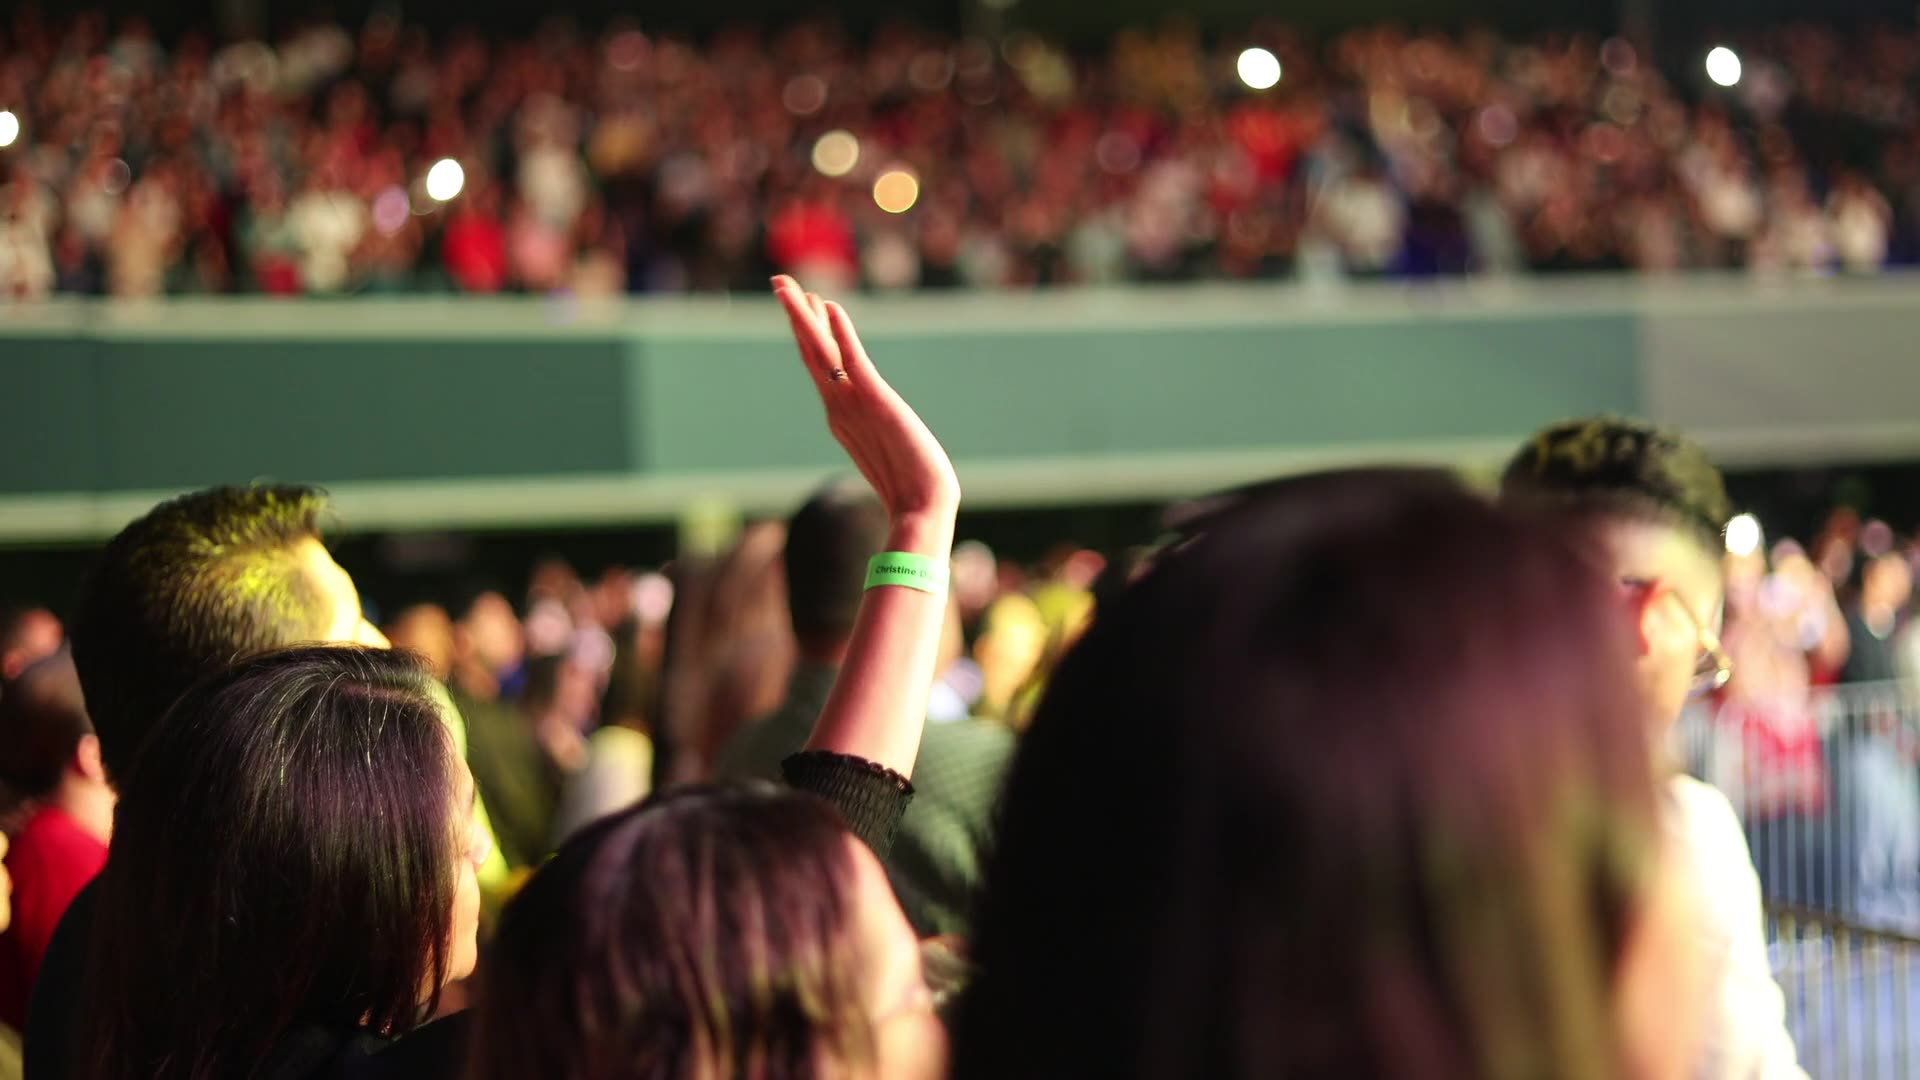
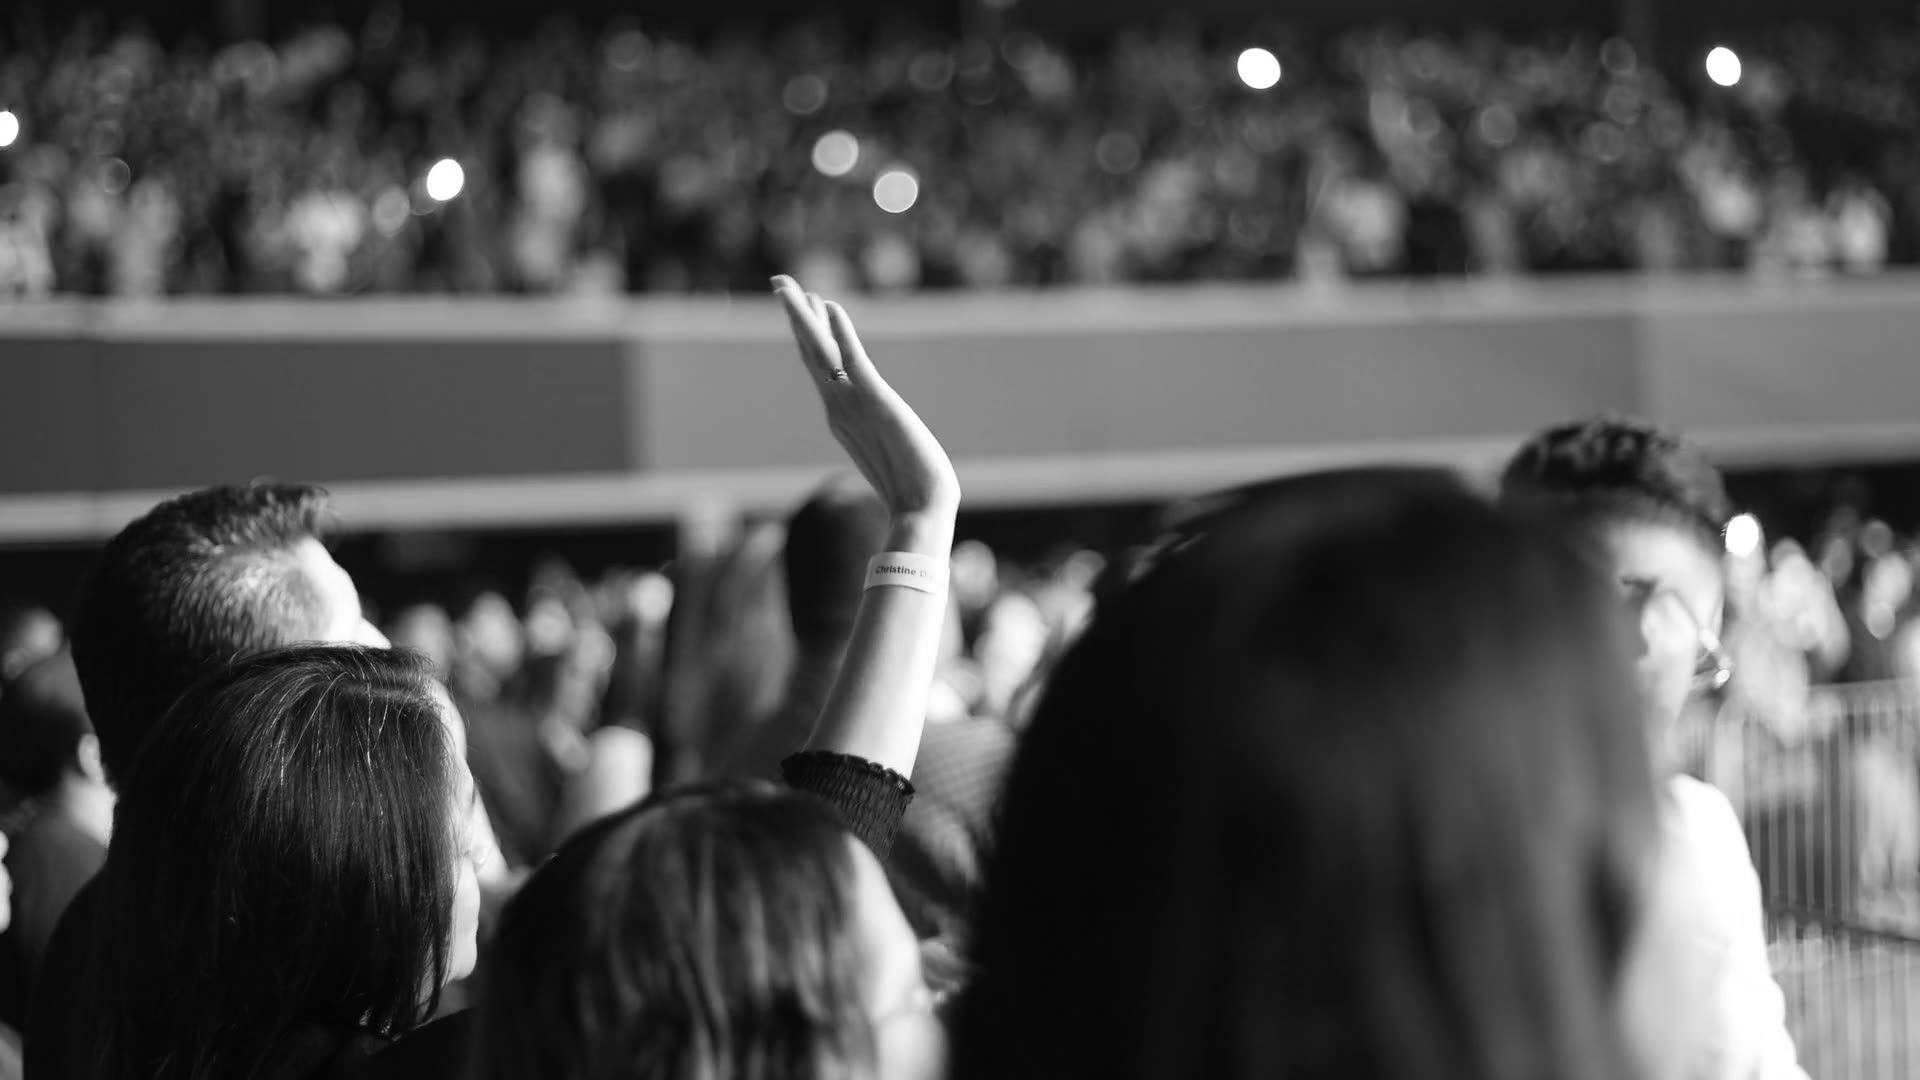
Church-appropriate photos (worship, prayer, Bible, fellowship, giving/harvest); black-and-white hero video
Claude-Session: https://claude.ai/code/session_01KxbrNpVm5YzjQbUdUbaS2n

diff --git a/edwards-redesign/index.html b/edwards-redesign/index.html
@@ -23,7 +23,7 @@
   Interactions: header turns solid on scroll, hero load sequence, image curtain reveals,
   text fade-ups, card lift, button fill sweeps, back-to-top. All respect reduced motion.
   Colours/fonts are the variables in styles.css → set once as Global Colors / Global Fonts.
-  Photos: Unsplash.
+  Photos: Unsplash (church worship, prayer, Bible reading, fellowship, giving/harvest). Hero video shown in black and white.
 -->
 </head>
 <body>
@@ -87,13 +87,13 @@
 <section class="section" aria-labelledby="welcome-title">
   <div class="wrap welcome">
     <div class="gallery reveal" aria-label="Photo gallery">
-      <a href="gallery-1.jpg" class="gallery-item g-a" data-index="0"><img src="gallery-1.jpg" alt="Sunlit sanctuary with wooden pews and a vaulted timber ceiling" width="1800" height="1200" loading="lazy"></a>
-      <a href="gallery-2.jpg" class="gallery-item g-b" data-index="1"><img src="gallery-2.jpg" alt="Open Bible beside a cup of coffee" width="1600" height="1201" loading="lazy"></a>
-      <a href="gallery-3.jpg" class="gallery-item g-c" data-index="2"><img src="gallery-3.jpg" alt="Tall white church aisle with arched ceiling" width="1600" height="2400" loading="lazy"></a>
-      <a href="gallery-4.jpg" class="gallery-item g-d" data-index="3"><img src="gallery-4.jpg" alt="Friends laughing together" width="1600" height="1067" loading="lazy"></a>
-      <a href="gallery-5.jpg" class="gallery-item g-e" data-index="4"><img src="gallery-5.jpg" alt="Person with open arms facing the sunrise" width="1600" height="1067" loading="lazy"></a>
-      <a href="gallery-6.jpg" class="gallery-item g-f" data-index="5"><img src="gallery-6.jpg" alt="Friends sitting in a row with arms around each other" width="1600" height="900" loading="lazy"></a>
-      <a href="gallery-7.jpg" class="gallery-item g-g" data-index="6"><img src="gallery-7.jpg" alt="A long table of people sharing a meal" width="1600" height="1067" loading="lazy"></a>
+      <a href="gallery-1.jpg" class="gallery-item g-a" data-index="0"><img src="gallery-1.jpg" alt="Congregation worshipping with raised hands in a modern church" width="1800" height="1185" loading="lazy"></a>
+      <a href="gallery-2.jpg" class="gallery-item g-b" data-index="1"><img src="gallery-2.jpg" alt="Open Bible on a table" width="1400" height="933" loading="lazy"></a>
+      <a href="gallery-3.jpg" class="gallery-item g-c" data-index="2"><img src="gallery-3.jpg" alt="Church members praying together during a service" width="1200" height="2133" loading="lazy"></a>
+      <a href="gallery-4.jpg" class="gallery-item g-d" data-index="3"><img src="gallery-4.jpg" alt="Congregation standing and worshipping together" width="1600" height="1069" loading="lazy"></a>
+      <a href="gallery-5.jpg" class="gallery-item g-e" data-index="4"><img src="gallery-5.jpg" alt="Hands folded in prayer over an open Bible" width="1400" height="933" loading="lazy"></a>
+      <a href="gallery-7.jpg" class="gallery-item g-f" data-index="5"><img src="gallery-7.jpg" alt="Golden wheat field ready for harvest" width="1400" height="935" loading="lazy"></a>
+      <a href="gallery-6.jpg" class="gallery-item g-g" data-index="6"><img src="gallery-6.jpg" alt="Cupped hands holding a young green plant" width="1400" height="802" loading="lazy"></a>
     </div>
     <div class="text-stack">
       <span class="eyebrow reveal">Welcome Home</span>
@@ -118,21 +118,21 @@
     </div>
     <div class="ministries">
       <a href="connect.html" class="ministry reveal">
-        <img src="ministry-word.jpg" alt="" width="2000" height="1333" loading="lazy">
+        <img src="ministry-word.jpg" alt="" width="1200" height="801" loading="lazy">
         <span class="ministry-body">
           <span class="ministry-title">The Word</span>
           <span class="ministry-text">Gathered around God's Word.</span>
         </span>
       </a>
       <a href="connect.html" class="ministry reveal">
-        <img src="ministry-family.jpg" alt="" width="1000" height="667" loading="lazy">
+        <img src="ministry-community.jpg" alt="" width="1200" height="801" loading="lazy">
         <span class="ministry-body">
           <span class="ministry-title">Community</span>
           <span class="ministry-text">For every stage of life.</span>
         </span>
       </a>
       <a href="connect.html" class="ministry reveal">
-        <img src="ministry-christ.jpg" alt="" width="1000" height="667" loading="lazy">
+        <img src="ministry-prayer.jpg" alt="" width="1200" height="800" loading="lazy">
         <span class="ministry-body">
           <span class="ministry-title">Discipleship</span>
           <span class="ministry-text">Lives modeled after Christ.</span>
@@ -160,7 +160,7 @@
       </div>
     </div>
     <a href="watch-live.html" class="live-screen reveal-img" aria-label="Watch the live stream">
-      <img src="watch-live.jpg" alt="" width="1400" height="933" loading="lazy">
+      <img src="watch-live.jpg" alt="" width="1600" height="2400" loading="lazy">
       <span class="shade"></span>
       <span class="corner c1"></span><span class="corner c2"></span><span class="corner c3"></span><span class="corner c4"></span>
       <span class="live-badge"><i></i>Live Stream</span>

diff --git a/edwards-redesign/styles.css b/edwards-redesign/styles.css
@@ -244,6 +244,7 @@ p { margin: 0; max-width: 62ch; }
 .hero-media { position: absolute; inset: 0; z-index: -2; }
 .hero-media video {
   width: 100%; height: 100%; object-fit: cover;
+  filter: grayscale(1);
   animation: heroZoom 14s var(--ease) both;
 }
 @keyframes heroZoom { from { transform: scale(1.12); } to { transform: scale(1); } }
